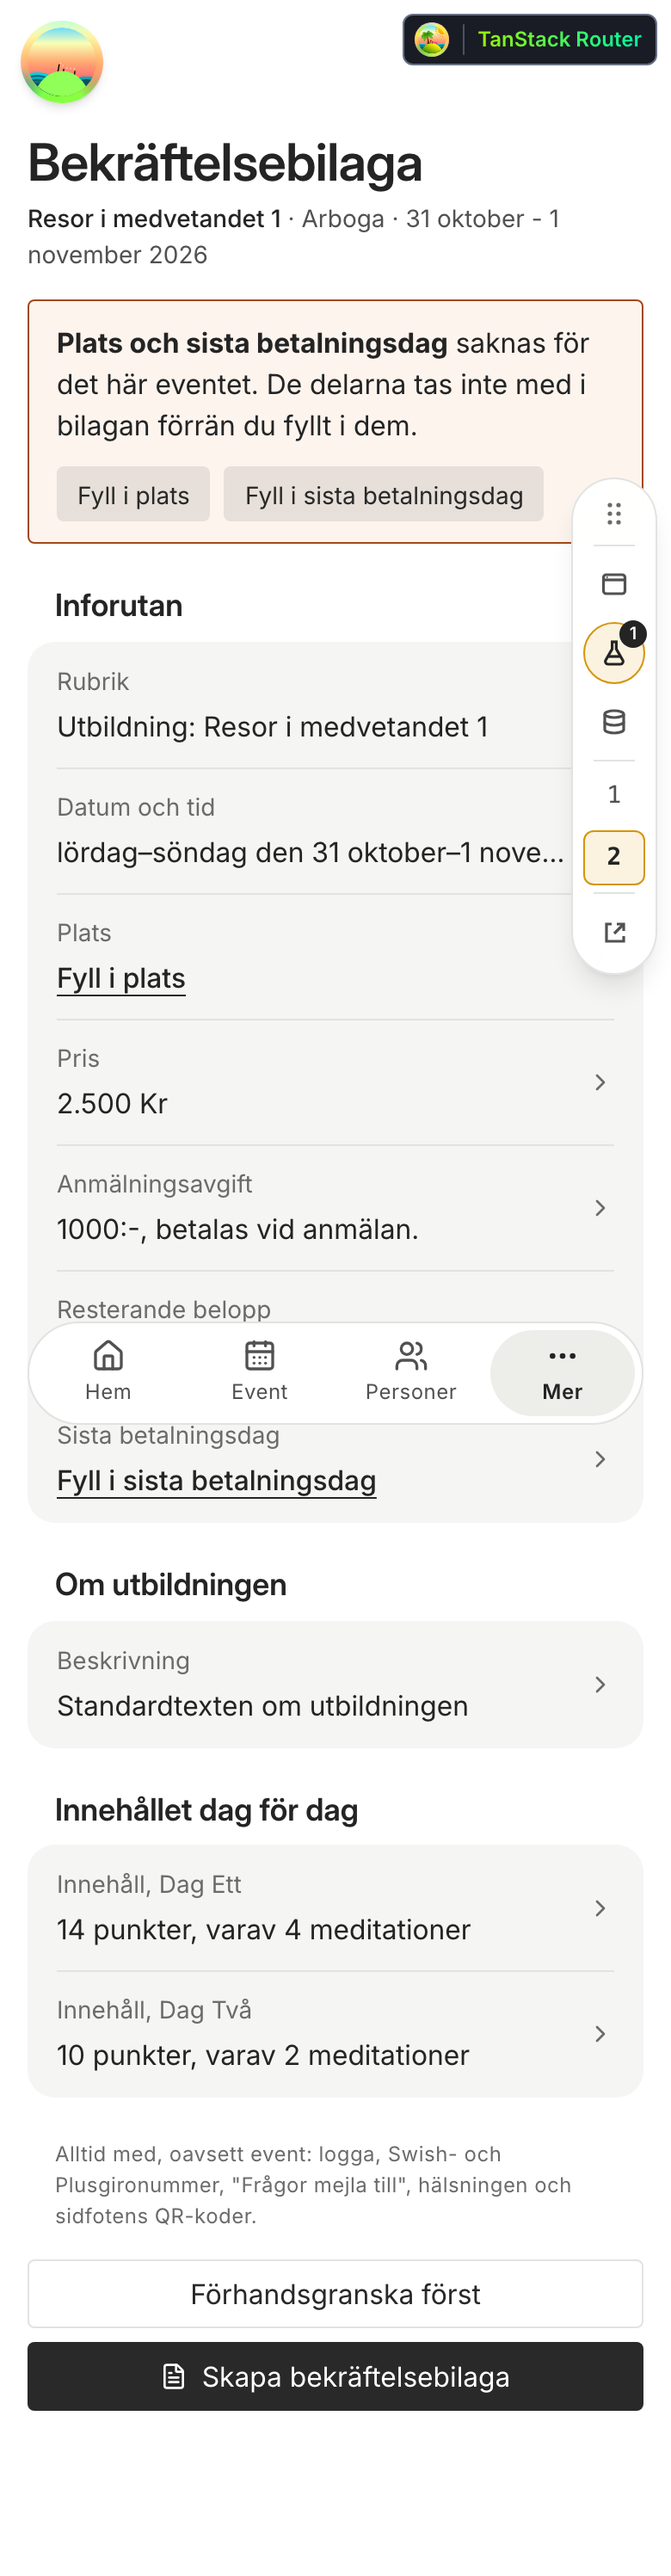
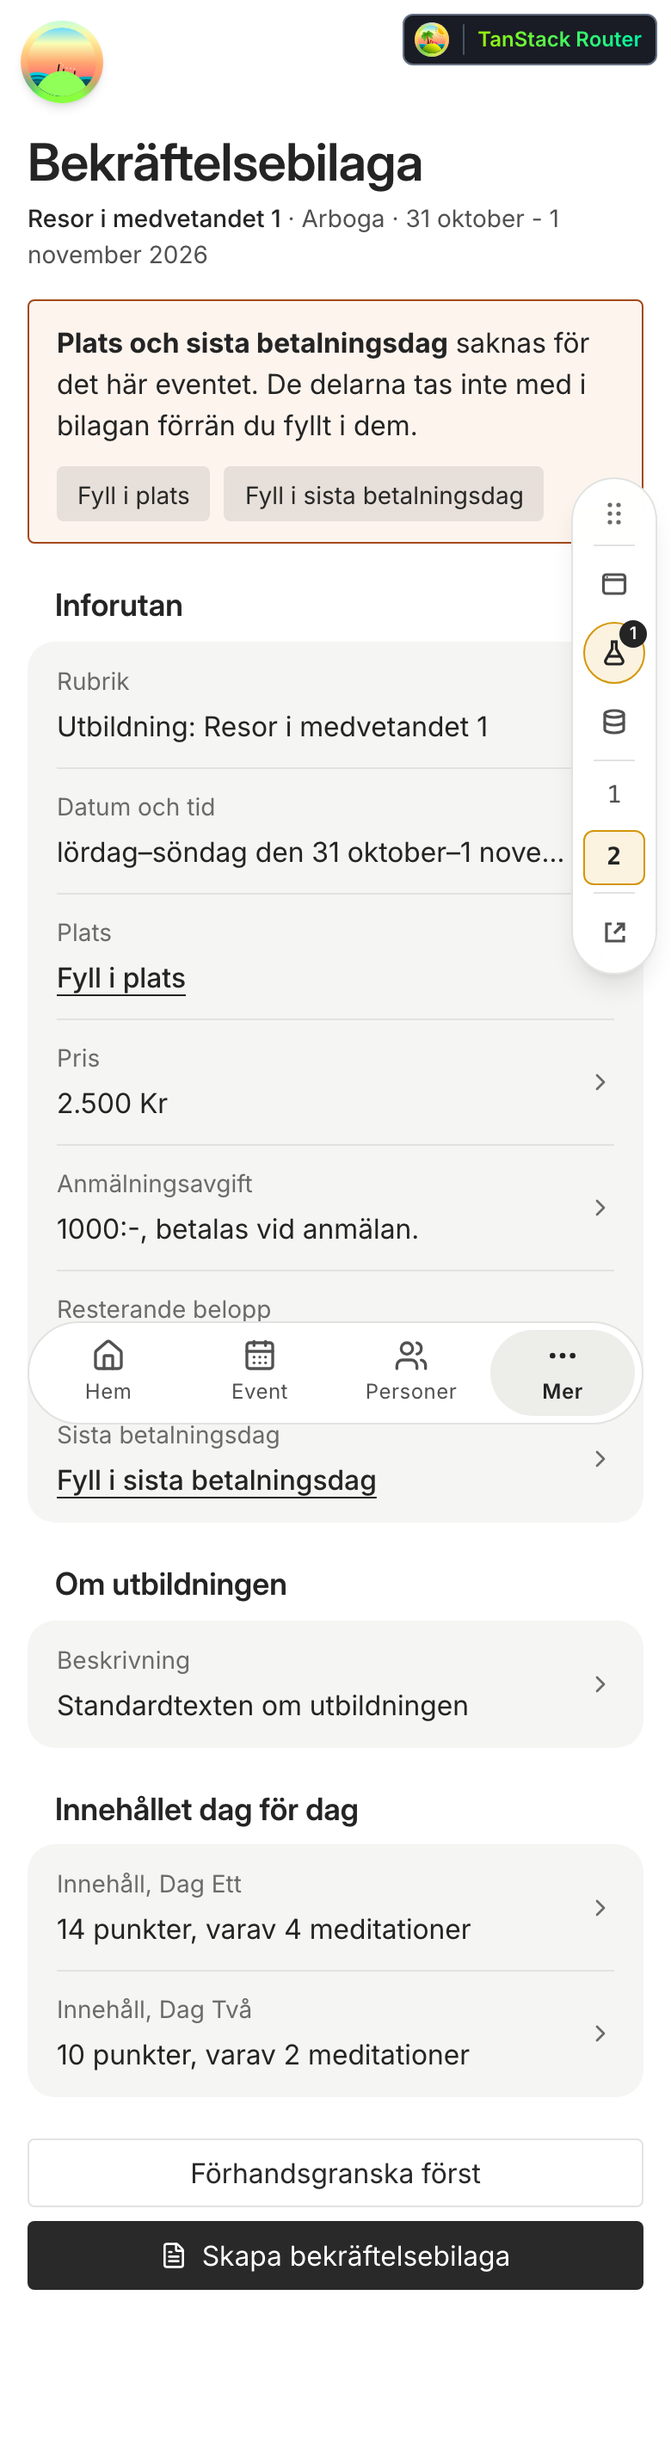
feat(proto): [PROTOTYPE, S108] genereringsvyn — varv 6, hover utan tint + fotnoten borta
Hover: ingen bakgrundsplatta (husets divide-y-grammatik, AktivitetsHistorik
2026-08-15 — tinten skar sig mot skiljelinjerna; Marcus såg samma igen);
underline på värdet via group, chevronen bär resten. "Alltid med …"-raden
riven (Marcus: onödig, de kan förhandsgranska). 72 px-raderna oförändrade.

diff --git a/src/components/dokument/prototyp/GenereringsPrototyp.tsx b/src/components/dokument/prototyp/GenereringsPrototyp.tsx
@@ -909,8 +909,11 @@ type Resultat =
   | { typ: 'ok'; utelamnade: string[]; sparade: string[] }
   | { typ: 'fel'; text: string };
 
-const RAD_KLASS =
-  '-mx-2 flex w-auto items-center gap-3 rounded-lg px-2 py-3 text-left hover:bg-bg-emphasized motion-safe:transition-colors';
+// INGEN bakgrundstint vid hover — husets divide-y-grammatik (AktivitetsHistorik
+// § radKlass, Marcus 2026-08-15: tinten skar sig mot separatorlinjerna; samma
+// fynd igen 2026-08-21). Affordansen är personlistans: underline på värdet via
+// group, chevronen bär resten.
+const RAD_KLASS = 'group flex w-full items-center gap-3 py-3 text-left';
 const KORT_KLASS =
   'divide-y divide-border rounded-2xl border border-transparent bg-bg-muted px-4 contrast-more:border-border-strong';
 
@@ -1082,8 +1085,12 @@ function GenereringsVy({
                           (hem-listornas hover:underline), 14:1 mot kortet; guld mättes
                           till 2,36:1 (gold-500) resp. 4,49:1 (gold-700) och föll. */}
                       <span
-                        className={`truncate text-body ${
-                          r.tomt ? 'font-medium underline decoration-1 underline-offset-4' : ''
+                        className={`truncate text-body underline-offset-4 ${
+                          r.tomt
+                            ? 'font-medium underline decoration-1'
+                            : r.def.last
+                              ? ''
+                              : 'group-hover:underline'
                         }`}
                         title={varde ?? undefined}
                       >
@@ -1124,10 +1131,6 @@ function GenereringsVy({
       })}
 
       <div className="flex flex-col gap-4">
-        <p className="px-4 text-caption text-text-muted">
-          Alltid med, oavsett event: {meta.fastForm}.
-        </p>
-
         {resultat?.typ === 'ok' && (
           <MessageBox intent="success">
             {meta.namn}n är skapad och ligger nu bland eventets dokument, redo att bifogas i
